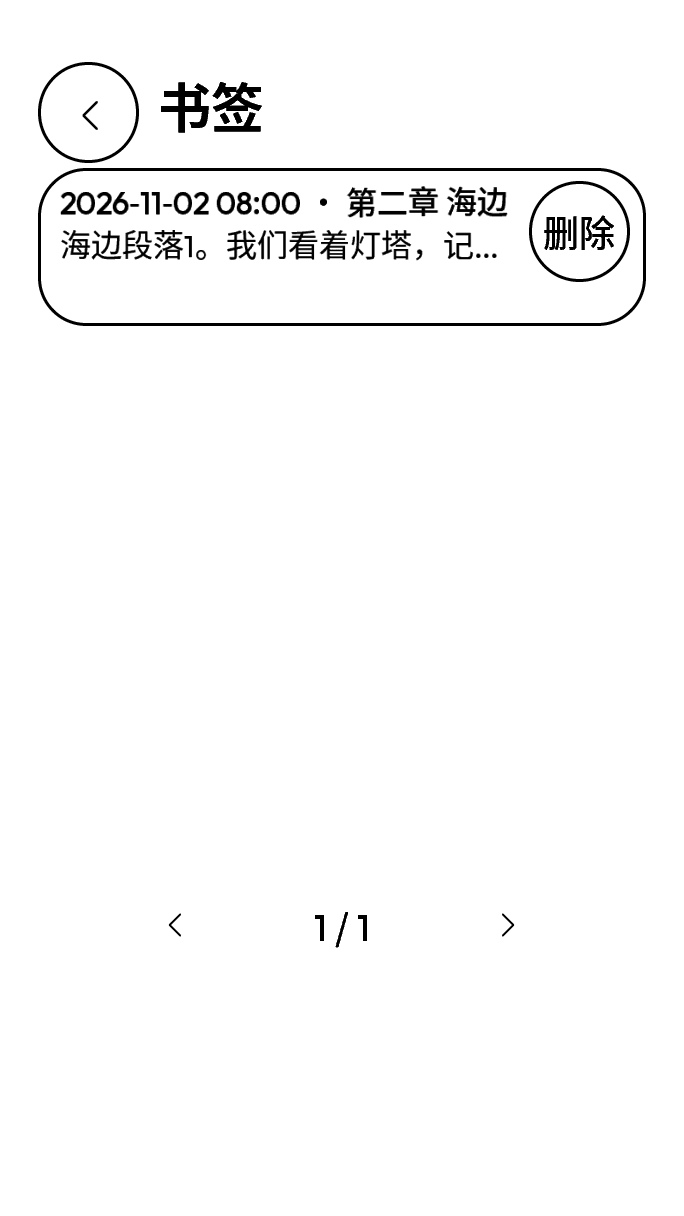
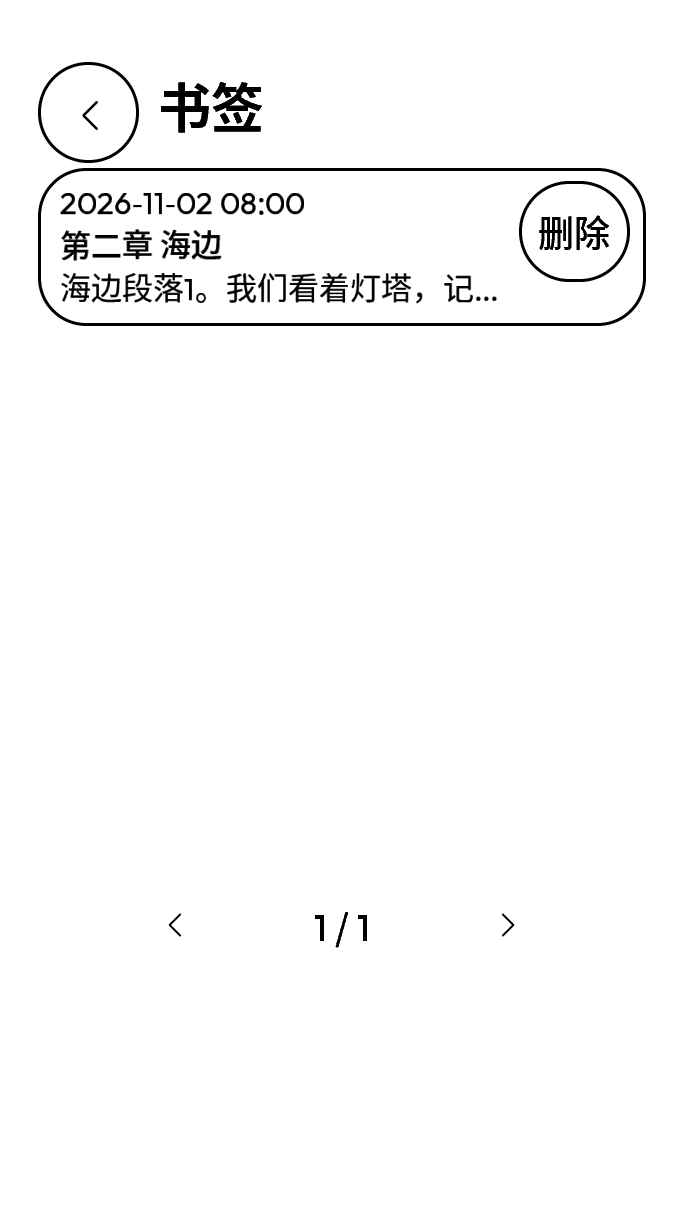
Register bookmark data and verify reader layouts

Changed region(s): [[0.0921, 0.125, 0.8904, 0.25]]

diff --git a/apps/reader/reader.c b/apps/reader/reader.c
@@ -1244,7 +1244,7 @@ static void card_changed(void *ctx, int h, const char *id) {
     (void)ctx; (void)h; (void)id; ink_app_card_changed("reader");
 }
 int ink_reader_actions_init(void) {
-    if (ink_settings_define(READER_SETTINGS,READER_LAYOUT_COUNT) || ink_settings_watch("reader.",layout_changed,NULL,INK_EXEC_UI) ||
+    if (ink_bookmarks_init() || ink_settings_define(READER_SETTINGS,READER_LAYOUT_COUNT) || ink_settings_watch("reader.",layout_changed,NULL,INK_EXEC_UI) ||
         ink_state_watch("time.minute",footer_changed,NULL,INK_EXEC_UI) || ink_state_watch("battery.level",footer_changed,NULL,INK_EXEC_UI)) return -1;
     int r = ink_cap_register(SHELF_ACTIONS, (int)(sizeof SHELF_ACTIONS / sizeof SHELF_ACTIONS[0]));
     return r ? r : ink_cap_register(BOOK_ACTIONS, (int)(sizeof BOOK_ACTIONS / sizeof BOOK_ACTIONS[0])) ||

diff --git a/apps/reader/bookmarks.cc b/apps/reader/bookmarks.cc
@@ -48,8 +48,8 @@ bool ink_save_bookmarks(const std::string& path,const std::vector<BookBookmark>&
     return true;
 }
 }
+extern "C" int ink_bookmarks_init(void) { return ink_db_register(&ink_bookmark_def); }
 extern "C" bool ink_bookmarks_open(const char *member,const char *book) {
-    if (!ink_db_find_def(ink_bookmark_def.name) && ink_db_register(&ink_bookmark_def)) return false;
     ink_bookmark_db=ink_db_open_member(&ink_bookmark_def,member);
     if (!ink_bookmark_db) return false;
     ink_reader_host_call([](void *p){ ink_bookmark_store.Load(static_cast<const char *>(p),0,0,0); },const_cast<char *>(book));

diff --git a/tests/reader_more/device.c b/tests/reader_more/device.c
@@ -76,6 +76,8 @@ static void txt(void) {
 }
 static void run(void *arg) {
     (void)arg; ink_power_hold(INK_NEED_AWAKE); ink_power_hold(INK_NEED_NO_LOCK); quiet();
+    const ink_db_def_t *definition=ink_db_find_def("reader.bookmarks");
+    CHECK(definition && definition->scope==INK_DB_MEMBER && definition->ai_read && !definition->ai_write,"bookmarks registered for AI before a book opens");
     const char *phase=getenv("INK_READER_MORE_PHASE");
     if (phase && !strcmp(phase,"restart")) {
         open_book(); uint32_t id=first_mark(); CHECK(id && strstr(marks,"\"chapter\":2"),"adult bookmarks survive restart");

diff --git a/apps/reader/bookmarks.h b/apps/reader/bookmarks.h
@@ -13,6 +13,7 @@ typedef struct {
     char excerpt[INK_BOOKMARK_EXCERPT+1];
 } ink_bookmark_t;
 bool ink_reader_locate(ink_reader_source_t *s, ink_reader_position_t *position, uint64_t *flat, bool to_source);
+int ink_bookmarks_init(void);
 bool ink_bookmarks_open(const char *member, const char *book);
 void ink_bookmarks_close(void);
 int ink_bookmarks_count(void);

diff --git a/docs/tasks/reader-more-1/REPORT.md b/docs/tasks/reader-more-1/REPORT.md
@@ -1,6 +1,6 @@
 # reader-more-1 执行报告
 
-基线：`d9ece7ad488d0a5ec74ed289c1c03e63719d538d`。状态：实现、24 项定向回归及 GCC 检查通过，继续做完整构建和内存验证；只在本地任务分支提交，不连接设备、不推送。
+基线：`d9ece7ad488d0a5ec74ed289c1c03e63719d538d`。状态：实现、24 项定向回归及 GCC 检查通过，完整构建和内存验证进行中；只在本地任务分支提交，不连接设备、不推送。
 
 ## 验收表
 
@@ -10,17 +10,19 @@
 | 2 原厂书签模型、操作和重排定位 | 通过【实测】 | 256 条、768 字节、半开区间模型测试及整机重排跳转通过；来源和适配见 [SOURCE.md](../../../apps/reader/vendor/metalio_bookmarks/SOURCE.md) | `ctest --test-dir build -R "reader-(more|bookmark-model)" --output-on-failure` |
 | 3 书签隔离、重启和 AI 一致性 | 通过【实测】 | 当前页标记、菜单增删、列表删除、按成员和重启保存 | 同上 |
 | 4 反向对照和原有阅读回归 | 通过【实测】 | 定向回归原话：`100% tests passed out of 24`；三项反向对照均检测到预期失败 | `ctest --test-dir build --output-on-failure -j2 -R "阅读回归集合"`，精确集合在最终报告补全 |
-| 5 普通全量、内存检查及 GCC | 待验证 | — | — |
+| 5.1 普通全量 | 待验证 | — | — |
+| 5.2 内存检查 | 通过【实测】 | ASan + UBSan：`100% tests passed out of 24`，61.90 秒；包括临时对象对照和分段测试 | 相同阅读回归集合，目录换为 `build-asan`，加 `-DINK_SANITIZE=ON` |
+| 5.3 GCC | 通过【实测】 | `gcccheck: 6 compiled, 0 with findings`，含 C++ 胶水 | `python "$INK_DEPS/../ink-codex/tools/gcccheck.py" build apps/reader/reader.c apps/reader/bookmarks.cc apps/reader/epub_source.cc tests/reader_more/device.c tests/reader_more/model.cc tests/integration/ai_surface.c` |
 | 6 S31 宿主机和固件大小 | 待验证 | — | — |
-| 7 常规及 120% 截图 | 待验证 | — | — |
+| 7 常规及 120% 截图 | 通过【实测】 | 六张 clean 帧；最大 50,243 字节；逐张检查，120% 删除按钮完整 | `INK_KEEP_EVIDENCE=1 ctest --test-dir build -R '^reader-more$' --output-on-failure` |
 
 ## 没做到的
 
-执行中，尚未作完成结论。
+尚未做设备实测；完整主工程、S31 和内存检查执行中，完成后在验收表给出结果。
 
 ## 和设计不一致的
 
-待核查。
+原厂模型头保持原文；持久化按任务要求改为成员数据集合，移除原厂 BKM1 文件格式；ID 改由成员数据库分配，避免不同书籍编号相撞。其余范围与上限逻辑保留，具体差异见 SOURCE.md。
 
 ## 改过的已有测试
 
@@ -36,11 +38,13 @@
 
 ## 新增的机制
 
-仅接入任务要求的收件箱书籍和书签；不新增常驻任务或持久文件格式。
+- 成员数据集合 `reader.bookmarks`：任务第 2 条要求，复用现有 JSON 记录和持久化服务，按书籍路径筛选。
+- 书签列表页和四个能力：任务第 2、3 条要求，复用系统分页、能力调用、页面快照和已有跳转路径。
+- 收件箱沿用现有进度文件判断“新”；没有新增配置项、常驻任务、状态机、缓存、后台重试或持久文件格式。
 
 ## 为什么不能更小
 
-收件箱必须沿用已有打开和进度路径，书签必须接到成员数据库、原厂源位置、分页列表、菜单与四个 AI 能力。只加页码标签会在重排后定位错误；直接使用原厂存储会引入新的文件格式。完成后统计实际新增行数。
+收件箱必须沿用已有打开和进度路径，书签必须接到成员数据库、原厂源位置、分页列表、菜单与四个 AI 能力。只加页码标签会在重排后定位错误；直接使用原厂存储会引入新的文件格式。产品代码新增 **314 行**（含 CMake、翻译、AI 登记和原文适配的 8 行；不以删除行抵扣），低于 400 行。
 
 ## 要改的文档
 
@@ -48,4 +52,10 @@
 
 ## 上机核对清单
 
-模拟器与编译结果不代替实机验证；待功能完成后列出具体步骤。
+1. 从手机或电脑分别传入 TXT、EPUB，当前家人书架显示“新”；非书、目录及传输中的 .part 不显示；回书架、续读和目录、阅读设置可用。
+2. 在 EPUB 第二章中段及 TXT 第二个目录位置加书签，确认页角标记、时间、章名和摘录；点击列表返回原句，菜单和列表都能删。
+3. 连续改变字号和行距，书签仍回原句；核对定位耗时、内部 RAM/PSRAM 及刷新残影。
+4. 切换两个家人，收件箱和同一共享书的书签各自独立；重启后进度与书签保留。
+5. 常规与 120% 系统字号核对三行条目和“删除”按钮，没有裁字或重叠。
+
+截图：[书架 100%](shelf-100.png) / [120%](shelf-120.png)，[书签 100%](bookmarks-100.png) / [120%](bookmarks-120.png)，[正文标记 100%](marked-100.png) / [120%](marked-120.png)。模拟器 clean 帧不代表真实屏幕残影。
